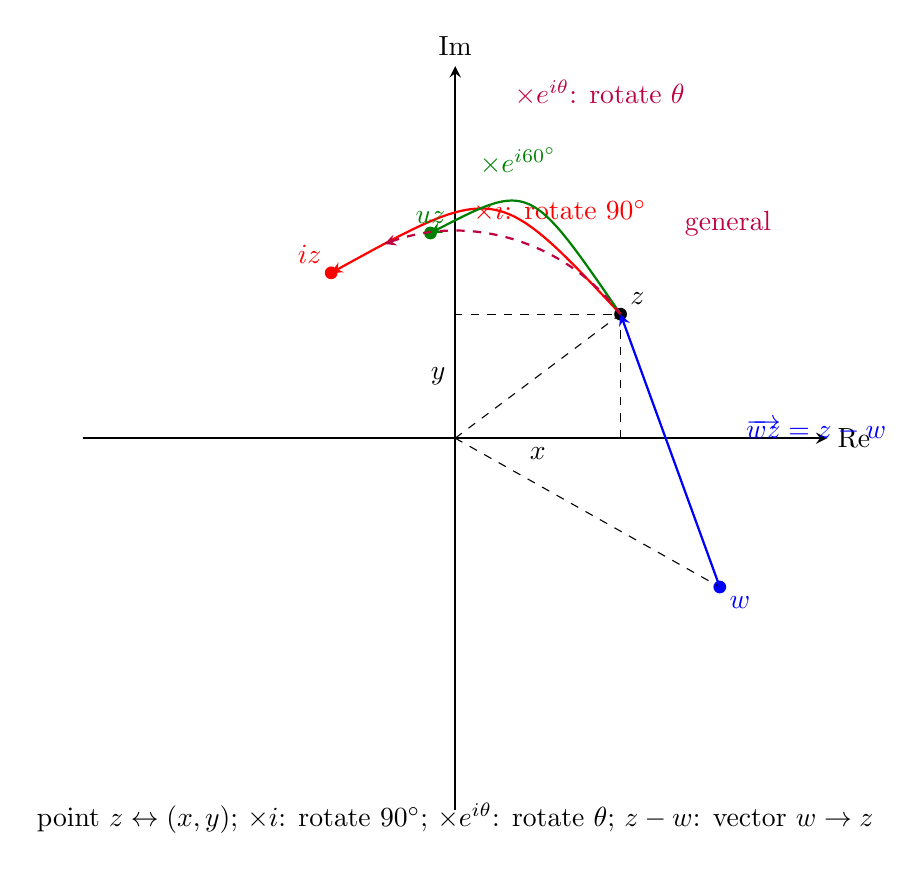
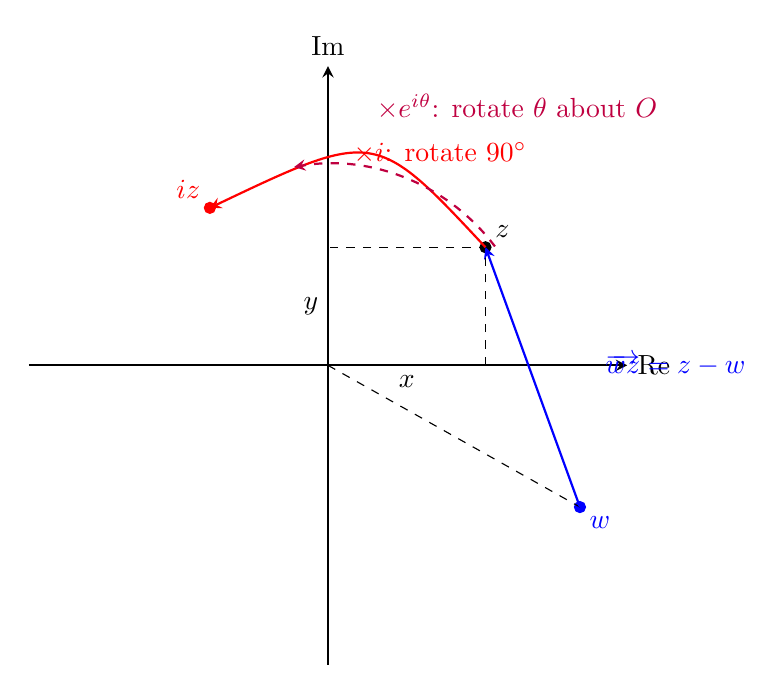
fix(articles): No21 图2 精简、新增绕点p旋转图、图4 图例下移
- 图2 复平面精简（去掉拥挤的 e^{i60} 特例，保留 z/乘i/乘e^{iθ}绕原点/
  z-w 向量四要素）
- 新增图3 绕点p旋转θ（z'=p+(z-p)e^{iθ}：先平移再旋转再平移），
  补上表格中漏掉的几何关系
- 图4 角色说明（外心/重心/垂心）移出图形，集中为圆下方图例
- 图注重编号 1-6 连续，正文看图引用同步

diff --git a/No21_复数在平面几何中的运用.md b/No21_复数在平面几何中的运用.md
@@ -19,7 +19,7 @@
 
 **核心翻译**：平面上的点 $(x, y)$ 对应复数 $z = x + yi$。于是：
 
-![图 2：复平面——点 $z$ 对应 $(x,y)$；乘 $i$ 旋转 $90°$，乘 $e^{i60°}$ 旋转 $60°$；$z-w$ 是向量](generated_images/no21_g3_complexplane.png)
+![图 2：复平面——点 $z$ 对应 $(x,y)$；乘 $i$ 旋转 $90°$；乘 $e^{i\theta}$ 绕原点旋转 $\theta$；$z-w$ 是向量 $\overrightarrow{wz}$](generated_images/no21_g3_complexplane.png)
 
 | 几何关系 | 复数表达 |
 |---------|---------|
@@ -30,7 +30,13 @@
 | 向量 $\overrightarrow{AB}$ | $b - a$ |
 | $|AB|$ | $\|b - a\|$ |
 
-（看图 2：$iz$ 是 $z$ 旋转 $90°$ 的结果，$uz$（$u = e^{i60°}$）是旋转 $60°$ 的结果——**"旋转"在复平面上就是一次乘法**，这是复数法的一切起点。而 $z - w$ 就是向量 $\overrightarrow{wz}$。）
+（看图 2：$iz$ 是 $z$ 旋转 $90°$ 的结果，$z \cdot e^{i\theta}$ 是绕原点旋转 $\theta$ 的结果——**"旋转"在复平面上就是一次乘法**，这是复数法的一切起点。而 $z - w$ 就是向量 $\overrightarrow{wz}$。）
+
+如果旋转中心不是原点，比如绕点 $p$ 旋转：先平移到 $p$ 为原点（$z \mapsto z-p$），旋转（乘 $e^{i\theta}$），再平移回去（$+p$）：
+
+![图 3：绕点 $p$ 旋转 $\theta$——$z' = p + (z-p)e^{i\theta}$：先平移、再旋转、再平移](generated_images/no21_g3b_rotateabout.png)
+
+（看图 3：$z-p$ 是把 $p$ 当原点的位置，旋转 $\theta$ 后加回 $p$——"先平移、再旋转、再平移"三步合成一个公式。这是所有"绕任意点旋转"题的钥匙。）
 
 **两个最重要的判据**：
 
@@ -47,7 +53,7 @@ $$M = \frac{a + b}{2} - i \cdot \frac{b - a}{2}.$$
 
 **定理（Napoleon）**：任意三角形 $ABC$ 的三边上分别向外作等边三角形，三个等边三角形的中心构成一个**等边三角形**。
 
-![图 3：拿破仑定理——任意三角形三边向外作等边三角形，其中心构成等边三角形](generated_images/no21_g2_napoleon.png)
+![图 4：拿破仑定理——任意三角形三边向外作等边三角形，其中心构成等边三角形](generated_images/no21_g2_napoleon.png)
 
 **分析**：纯几何证明要绕很大的圈子（反复用旋转全等）。复数法把"向外作等边三角形"翻译成一个旋转：
 
@@ -109,7 +115,7 @@ $$m_2 - m_4 = i\,(m_1 - m_3).$$
 
 **定理（Euler line 的复数版）**：$\triangle ABC$ 的外心在原点 $O$（$a, b, c$ 在单位圆上），重心为 $G$，垂心为 $H$。证明：$O, G, H$ 共线，且 $OG : GH = 1 : 2$。
 
-![图 4：欧拉线——外心 $O$、重心 $G$、垂心 $H$ 共线，且 $OG : GH = 1:2$](generated_images/no21_g4_eulerline.png)
+![图 5：欧拉线——外心 $O$、重心 $G$、垂心 $H$ 共线，且 $OG : GH = 1:2$](generated_images/no21_g4_eulerline.png)
 
 **证明**：设 $g$ 为重心、$h$ 为垂心。重心是顶点平均：$g = \dfrac{a+b+c}{3}$。垂心的复数表示（外心在原点时）：$h = a+b+c$（这是单位圆情形的标准结论，证明见下）。
 
@@ -127,7 +133,7 @@ $$g = \frac{h}{3}.$$
 
 **定理**：$\triangle ABC$ 内任取一点 $P$，分别绕 $A, B, C$ 旋转 $60°$ 得 $P_1, P_2, P_3$。证明：$\triangle P_1P_2P_3$ 与 $\triangle ABC$ **同向相似**。
 
-![图 5：绕三顶点旋转 $60°$——$P$ 绕 $A, B, C$ 旋转得 $P_1, P_2, P_3$，所得三角形与 $\triangle ABC$ 相似](generated_images/no21_g5_rotatep.png)
+![图 6：绕三顶点旋转 $60°$——$P$ 绕 $A, B, C$ 旋转得 $P_1, P_2, P_3$，所得三角形与 $\triangle ABC$ 相似](generated_images/no21_g5_rotatep.png)
 
 **证明**：设 $u = e^{i\pi/3}$。绕 $A$ 旋转 $60°$ 即 $p_1 = a + (p-a)u$，同理 $p_2 = b + (p-b)u$，$p_3 = c + (p-c)u$。作差：
 
